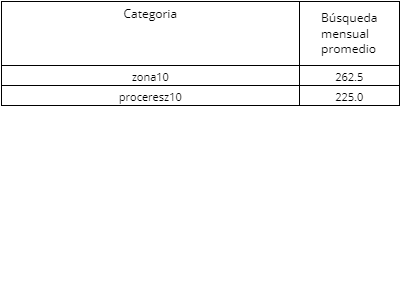
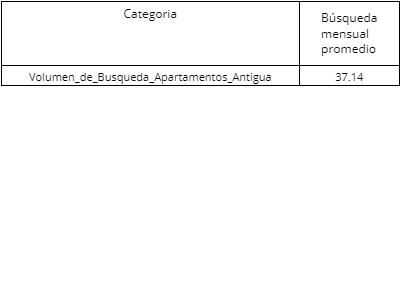
se agrego sep y encoding

Changed region(s): [[0.0, 0.27, 1.0, 0.36], [0.06, 0.24, 0.69, 0.3], [0.84, 0.24, 0.93, 0.27]]

diff --git a/Kevyn_Reporte.py b/Kevyn_Reporte.py
@@ -172,7 +172,7 @@ def generate_pptx(prs):
     for file in keyword_files:
         indexC += 1
         if keyword_files is not None:
-            keyword_df = pd.read_csv(file)           
+            keyword_df = pd.read_csv(file, sep=';', encoding = "ISO-8859-1")           
             row, col = keyword_df.shape
             promedio = 0.0
 
